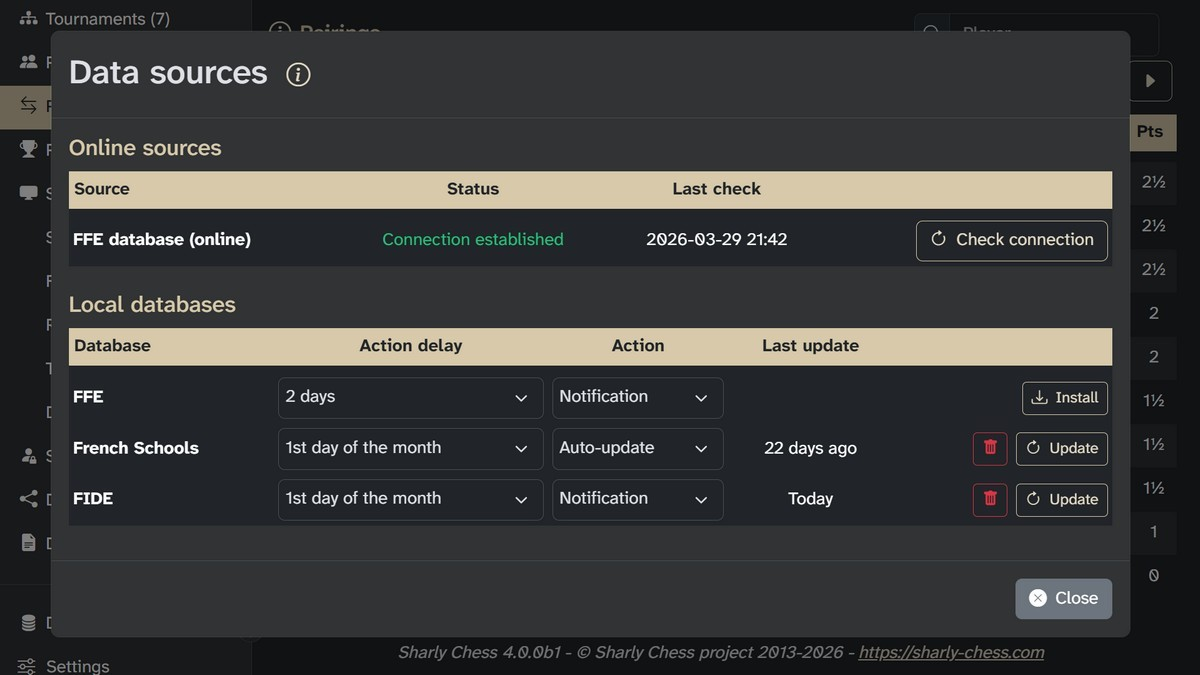
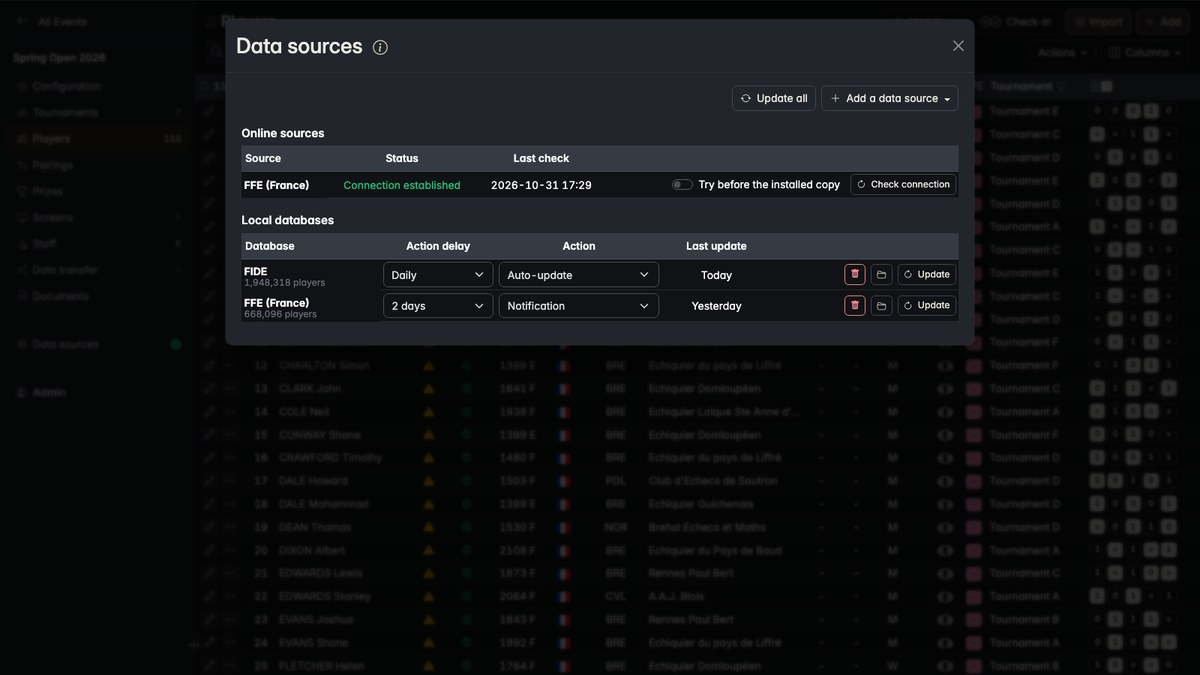
Retake the screenshots of the application in English and French
The client screens (pairings by player split across a multi-screen, pairings by player of two tournaments, pairings by board with a menu) are shot again without the background images that are no longer supported, and each language has its own copy. The screenshots of the home page (data sources, pairings by board, result entry) and of the FFE upload are retaken in the dark theme of the administration. The players and the organisers are made up.

The FFE upload answer describes the switches of the upload window, which turn the automatic upload of each tournament on or off, instead of the tournament and event settings that no longer hold it.

diff --git a/docs/plugins/france/ffe.fr.md b/docs/plugins/france/ffe.fr.md
@@ -123,26 +123,20 @@ Dans tous les cas, le classement affiché par _Sharly Chess_ et celui du site we
 
 {% details Comment met-on en ligne les résultats sur le site _FFE_ ? %}
 
-  Une fois le plug-in activé, la mise en ligne des résultats se fait dans l'onglet Mettre en ligne (cartouche de gauche) :
+  Une fois le plug-in activé, la mise en ligne des résultats se fait depuis le menu **Transfert de données** (cartouche de gauche), sous **FFE** :
 
   {: .text-center}
-  ![Onglet Mettre en ligne](/assets/faq/faq-ffe-upload-1.fr.jpg)
+  ![L'entrée FFE du menu Transfert de données](/assets/faq/faq-ffe-upload-1.fr.jpg)
 
   {: .text-center}
   ![Mise en ligne des tournois sur le site _FFE_](/assets/faq/faq-ffe-upload-2.fr.jpg)
 
-  La mise en ligne automatique peut-être activée pour chaque tournoi dont on a renseigné les identifiants _FFE_ :
+  La mise en ligne automatique s'active ou se désactive pour chaque tournoi dont on a renseigné les identifiants _FFE_, avec l'interrupteur en début de ligne ; l'interrupteur de l'en-tête du tableau la règle pour tous les tournois à la fois. Les résultats de ces tournois sont alors mis en ligne à intervalles réguliers, sans qu'il soit nécessaire d'ouvrir cette fenêtre.
+
+  La carte du tournoi indique si la mise en ligne automatique est activée :
 
   {: .text-center}
-  ![Activation de la mise en ligne automatique pour un tournoi](/assets/faq/faq-ffe-upload-3.fr.jpg)
-
-  {: .text-center}
-  ![Mise en ligne automatiques activée](/assets/faq/faq-ffe-upload-4.fr.jpg)
-
-  La configuration par défaut des tournois se fait au niveau de l'évènement :
-
-  {: .text-center}
-  ![Configuration de la mise en ligne automatique par défaut](/assets/faq/faq-ffe-upload-5.fr.jpg)
+  ![Mise en ligne automatique activée](/assets/faq/faq-ffe-upload-4.fr.jpg)
 
 {% enddetails %}
 

diff --git a/docs/plugins/france/ffe.en.md b/docs/plugins/france/ffe.en.md
@@ -123,26 +123,20 @@ In all cases, the ranking displayed by _Sharly Chess_ and on the _FFE_ website a
 
 {% details How do we upload results to the _FFE_ website? %}
 
-  Once the plugin is activated, results can be uploaded thanks to the Upload tab (left panel):
+  Once the plugin is activated, results are uploaded from the **Data transfer** menu (left panel), under **FFE**:
 
   {: .text-center}
-  ![Upload tab](/assets/faq/faq-ffe-upload-1.en.jpg)
+  ![The FFE entry of the Data transfer menu](/assets/faq/faq-ffe-upload-1.en.jpg)
 
   {: .text-center}
   ![Uploading tournaments to the _FFE_ website](/assets/faq/faq-ffe-upload-2.en.jpg)
 
-  Automatic upload can be enabled for each tournament for which _FFE_ credentials have been entered:
+  Automatic upload is switched on or off for each tournament whose _FFE_ credentials have been entered, with the switch at the start of its row; the switch in the header of the table sets it for all of them at once. The results of these tournaments are then uploaded at regular intervals, without this window having to be opened.
 
-  {: .text-center}
-  ![Enabling automatic upload for a tournament](/assets/faq/faq-ffe-upload-3.en.jpg)
+  The card of the tournament shows whether automatic upload is on:
 
   {: .text-center}
   ![Automatic upload enabled](/assets/faq/faq-ffe-upload-4.en.jpg)
-
-  The default tournament configuration is done at the event level:
-
-  {: .text-center}
-  ![Configuring the default automatic upload](/assets/faq/faq-ffe-upload-5.en.jpg)
 
 {% enddetails %}
 

diff --git a/docs/screens/single-screens.fr.md b/docs/screens/single-screens.fr.md
@@ -60,7 +60,7 @@ Vous pouvez également utiliser des valeurs spéciales pour inclure automatiquem
 Note : Vous n’êtes pas obligé·e d’ajouter un menu sur tous les écrans. Par exemple, cela n’a généralement pas de sens sur un écran projeté destiné uniquement à l’affichage.
 
 {% figure [caption: "Exemple de l’écran « Appariements par échiquier » avec 4 éléments de menu"] %}
-![Exemple de l’écran « Appariements par échiquier » avec 4 éléments de menu](/assets/images/menus-3.jpg)
+![Exemple de l’écran « Appariements par échiquier » avec 4 éléments de menu](/assets/images/menus-3.fr.jpg)
 {% endfigure %}
 
 ---
@@ -85,5 +85,5 @@ Dans ce cas, vous pouvez configurer un **écran unique d’appariement** afficha
 Cette flexibilité vous permet d’adapter votre configuration à votre espace, à votre matériel et à la structure de votre événement.
 
 {% figure [caption: "Exemple de l’écran « Appariements par joueur·euse » avec 2 tournois et 2 colonnes"] %}
-![Exemple de l’écran « Appariements par joueur·euse » avec 2 tournois et 2 colonnes](/assets/images/players-screen-multi.jpg)
+![Exemple de l’écran « Appariements par joueur·euse » avec 2 tournois et 2 colonnes](/assets/images/players-screen-multi.fr.jpg)
 {% endfigure %}

diff --git a/docs/screens/single-screens.en.md b/docs/screens/single-screens.en.md
@@ -59,7 +59,7 @@ You can also use special values to include categories of Screens:
 Note: You don’t need to add a menu to every screen. For example, if a screen is displayed via a projector (rather than on an interactive device), including a menu may not be appropriate.
 
 {% figure [caption: "Example of the 'Pairings by Board' screen with 4 menu items"] %}
-![Example of the 'Pairings by Board' screen with 4 menu items](/assets/images/menus-3.jpg)
+![Example of the 'Pairings by Board' screen with 4 menu items](/assets/images/menus-3.en.jpg)
 {% endfigure %}
 
 ---
@@ -83,5 +83,5 @@ You might choose to set up a **single pairings Screen** that shows **all the boa
 This flexibility makes it easy to tailor your setup to the needs of your space, equipment, and number of tournaments.
 
 {% figure [caption: "Example of the 'Pairings by Player' screen with 2 tournaments and 2 columns"] %}
-![Example of the 'Pairings by Player' screen with 2 tournaments and 2 columns](/assets/images/players-screen-multi.jpg)
+![Example of the 'Pairings by Player' screen with 2 tournaments and 2 columns](/assets/images/players-screen-multi.en.jpg)
 {% endfigure %}

diff --git a/docs/screens/multi-screens.fr.md b/docs/screens/multi-screens.fr.md
@@ -16,7 +16,7 @@ Cette méthode peut être fastidieuse et source d’erreurs.
 Les **écrans multiples** (_Multi-Screens_) permettent d’automatiser ce processus en générant automatiquement les écrans simples nécessaires.
 
 {% figure [caption: "Exemple de l’écran multiple « Appariements par joueur·euse » réparti sur 12 écrans."] %}
-![Exemple de l’écran multiple « Appariements par joueur·euse » réparti sur 12 écrans.](/assets/images/players-screen.jpg)
+![Exemple de l’écran multiple « Appariements par joueur·euse » réparti sur 12 écrans.](/assets/images/players-screen.fr.jpg)
 {% endfigure %}
 
 ---

diff --git a/docs/screens/multi-screens.en.md b/docs/screens/multi-screens.en.md
@@ -15,7 +15,7 @@ However, that approach can be tedious and error-prone.
 _Multi-Screens_ allow you to automate this process by automatically generating single Screens for you.
 
 {% figure [caption: "Example of the 'Pairings by Player' multi-screen split across 12 screens"] %}
-![Example of the 'Pairings by Player' multi-screen split across 12 screens](/assets/images/players-screen.jpg)
+![Example of the 'Pairings by Player' multi-screen split across 12 screens](/assets/images/players-screen.en.jpg)
 {% endfigure %}
 
 ---
